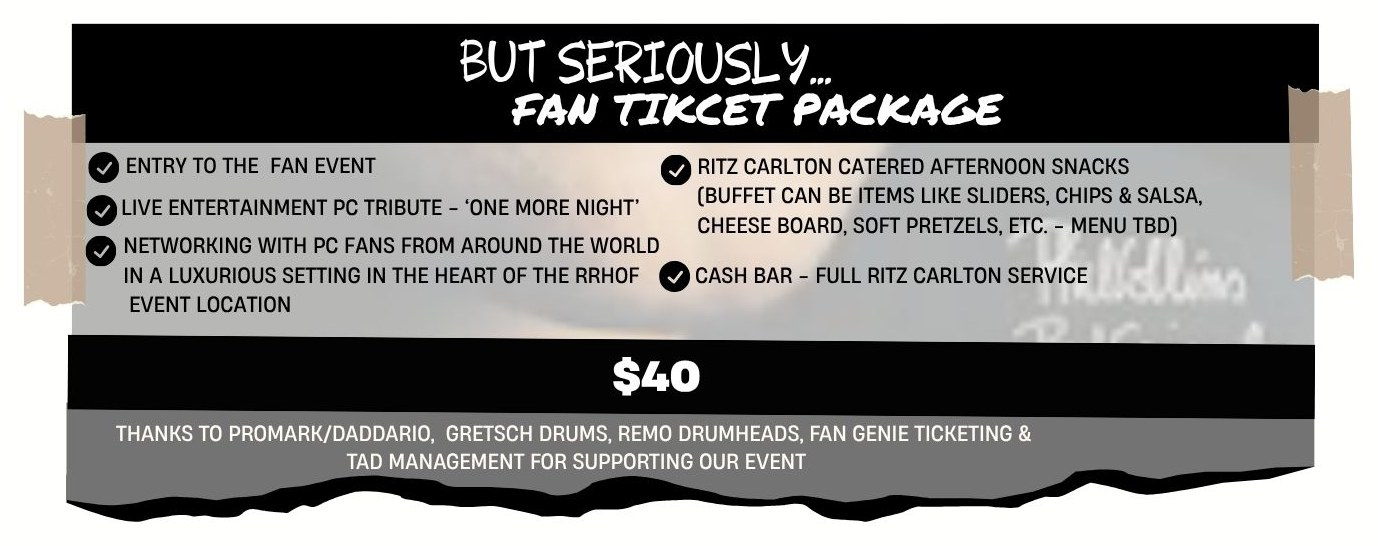
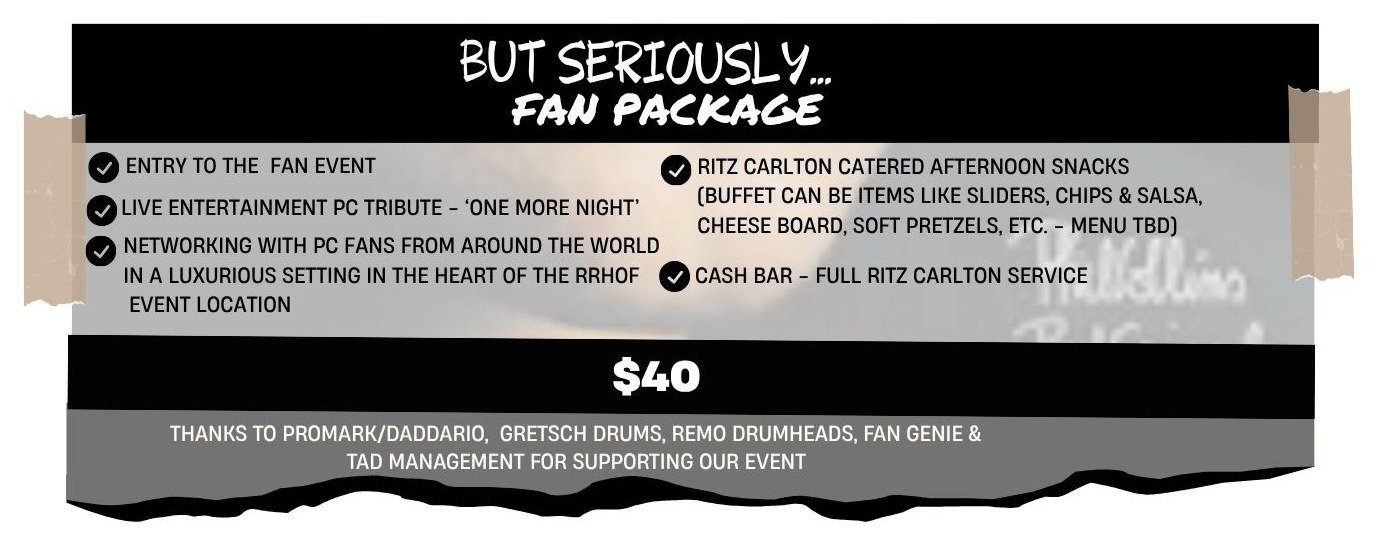
Got Phil Voted In: card 4 graphic says 'Fan Package', drop 'Ticketing' from its sponsor line

Changed region(s): [[0.4369, 0.1557, 0.7489, 0.2491], [0.0624, 0.7784, 0.7489, 0.8095]]

diff --git a/gotphilvotedin/index.html b/gotphilvotedin/index.html
@@ -247,9 +247,9 @@ footer a:hover{color:var(--accent)}
     </div>
   </article>
   <article class="tile t4">
-    <button class="art" type="button" data-full="/gotphilvotedin/img/package-4.jpg" aria-label="View full But Seriously&hellip; package card">
+    <button class="art" type="button" data-full="/gotphilvotedin/img/package-4.jpg?v=2" aria-label="View full But Seriously&hellip; package card">
       <span class="badge ">Fan Package</span>
-      <img src="/gotphilvotedin/img/package-4.jpg" alt="But Seriously&hellip; package card">
+      <img src="/gotphilvotedin/img/package-4.jpg?v=2" alt="But Seriously&hellip; package card">
       <span class="zoom"><svg viewBox="0 0 24 24"><circle cx="11" cy="11" r="7"/><path d="M21 21l-4.3-4.3M11 8v6M8 11h6"/></svg>Full details</span>
     </button>
     <div class="body">
